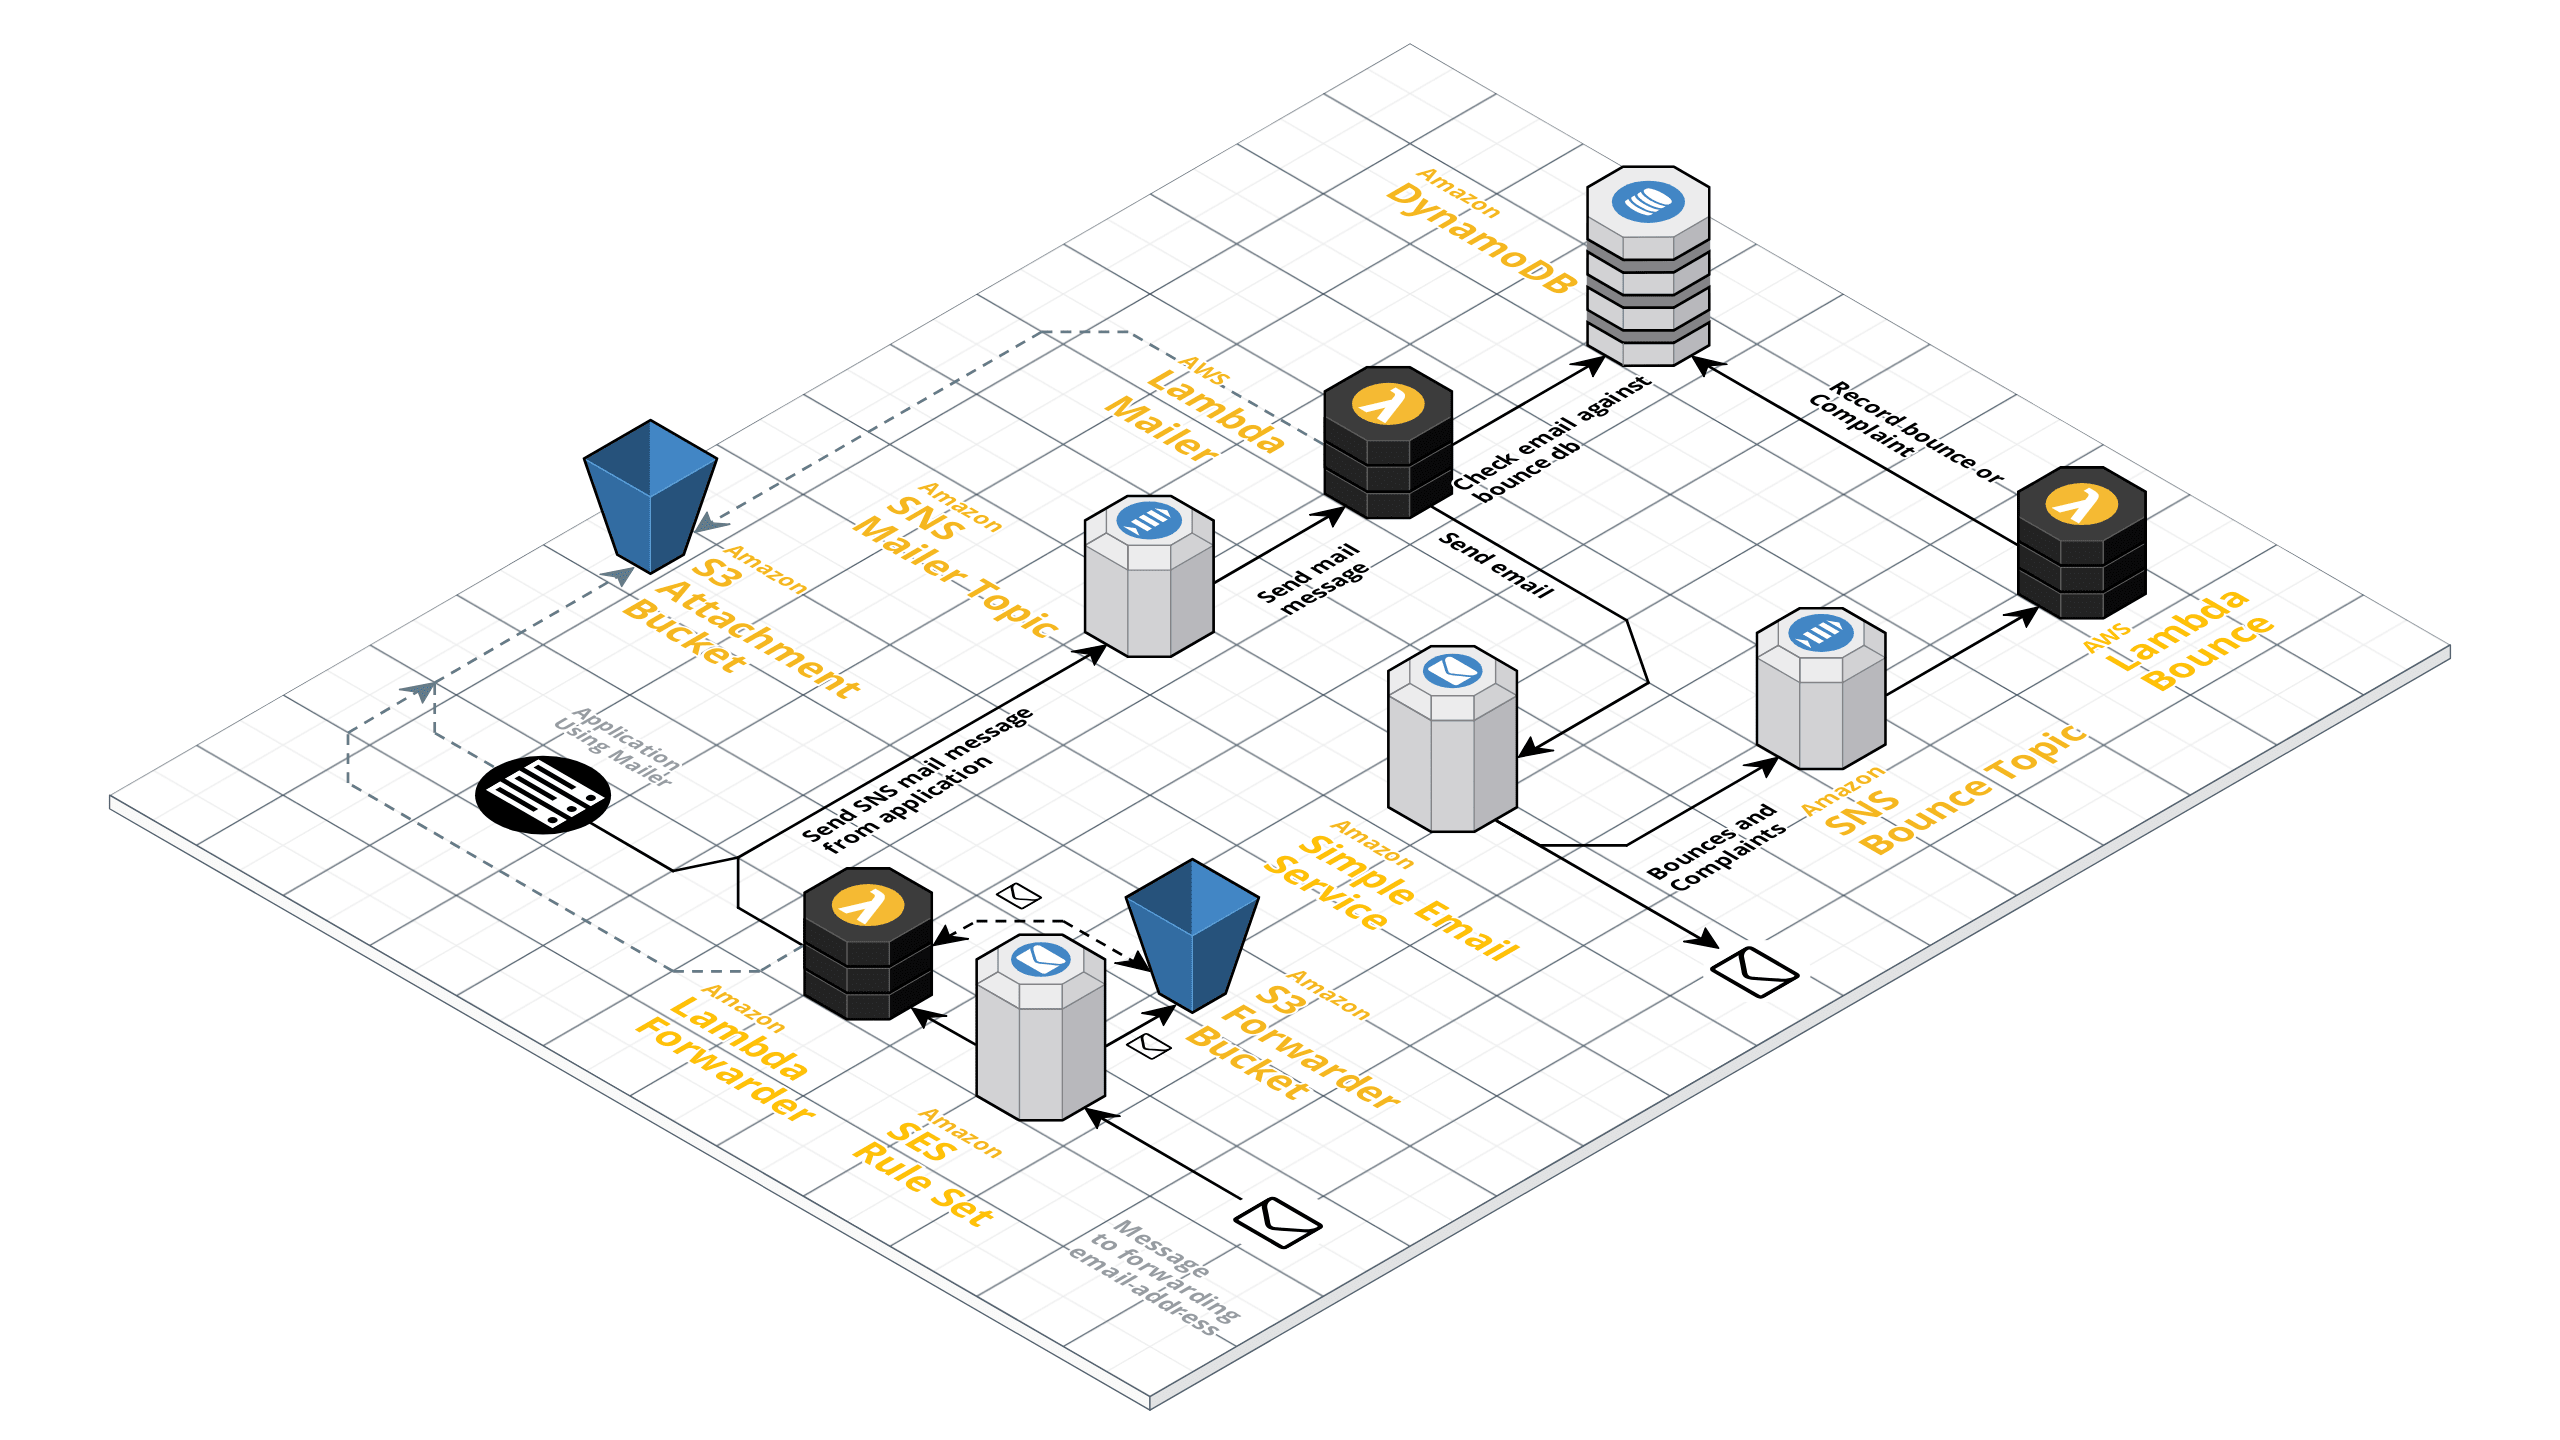
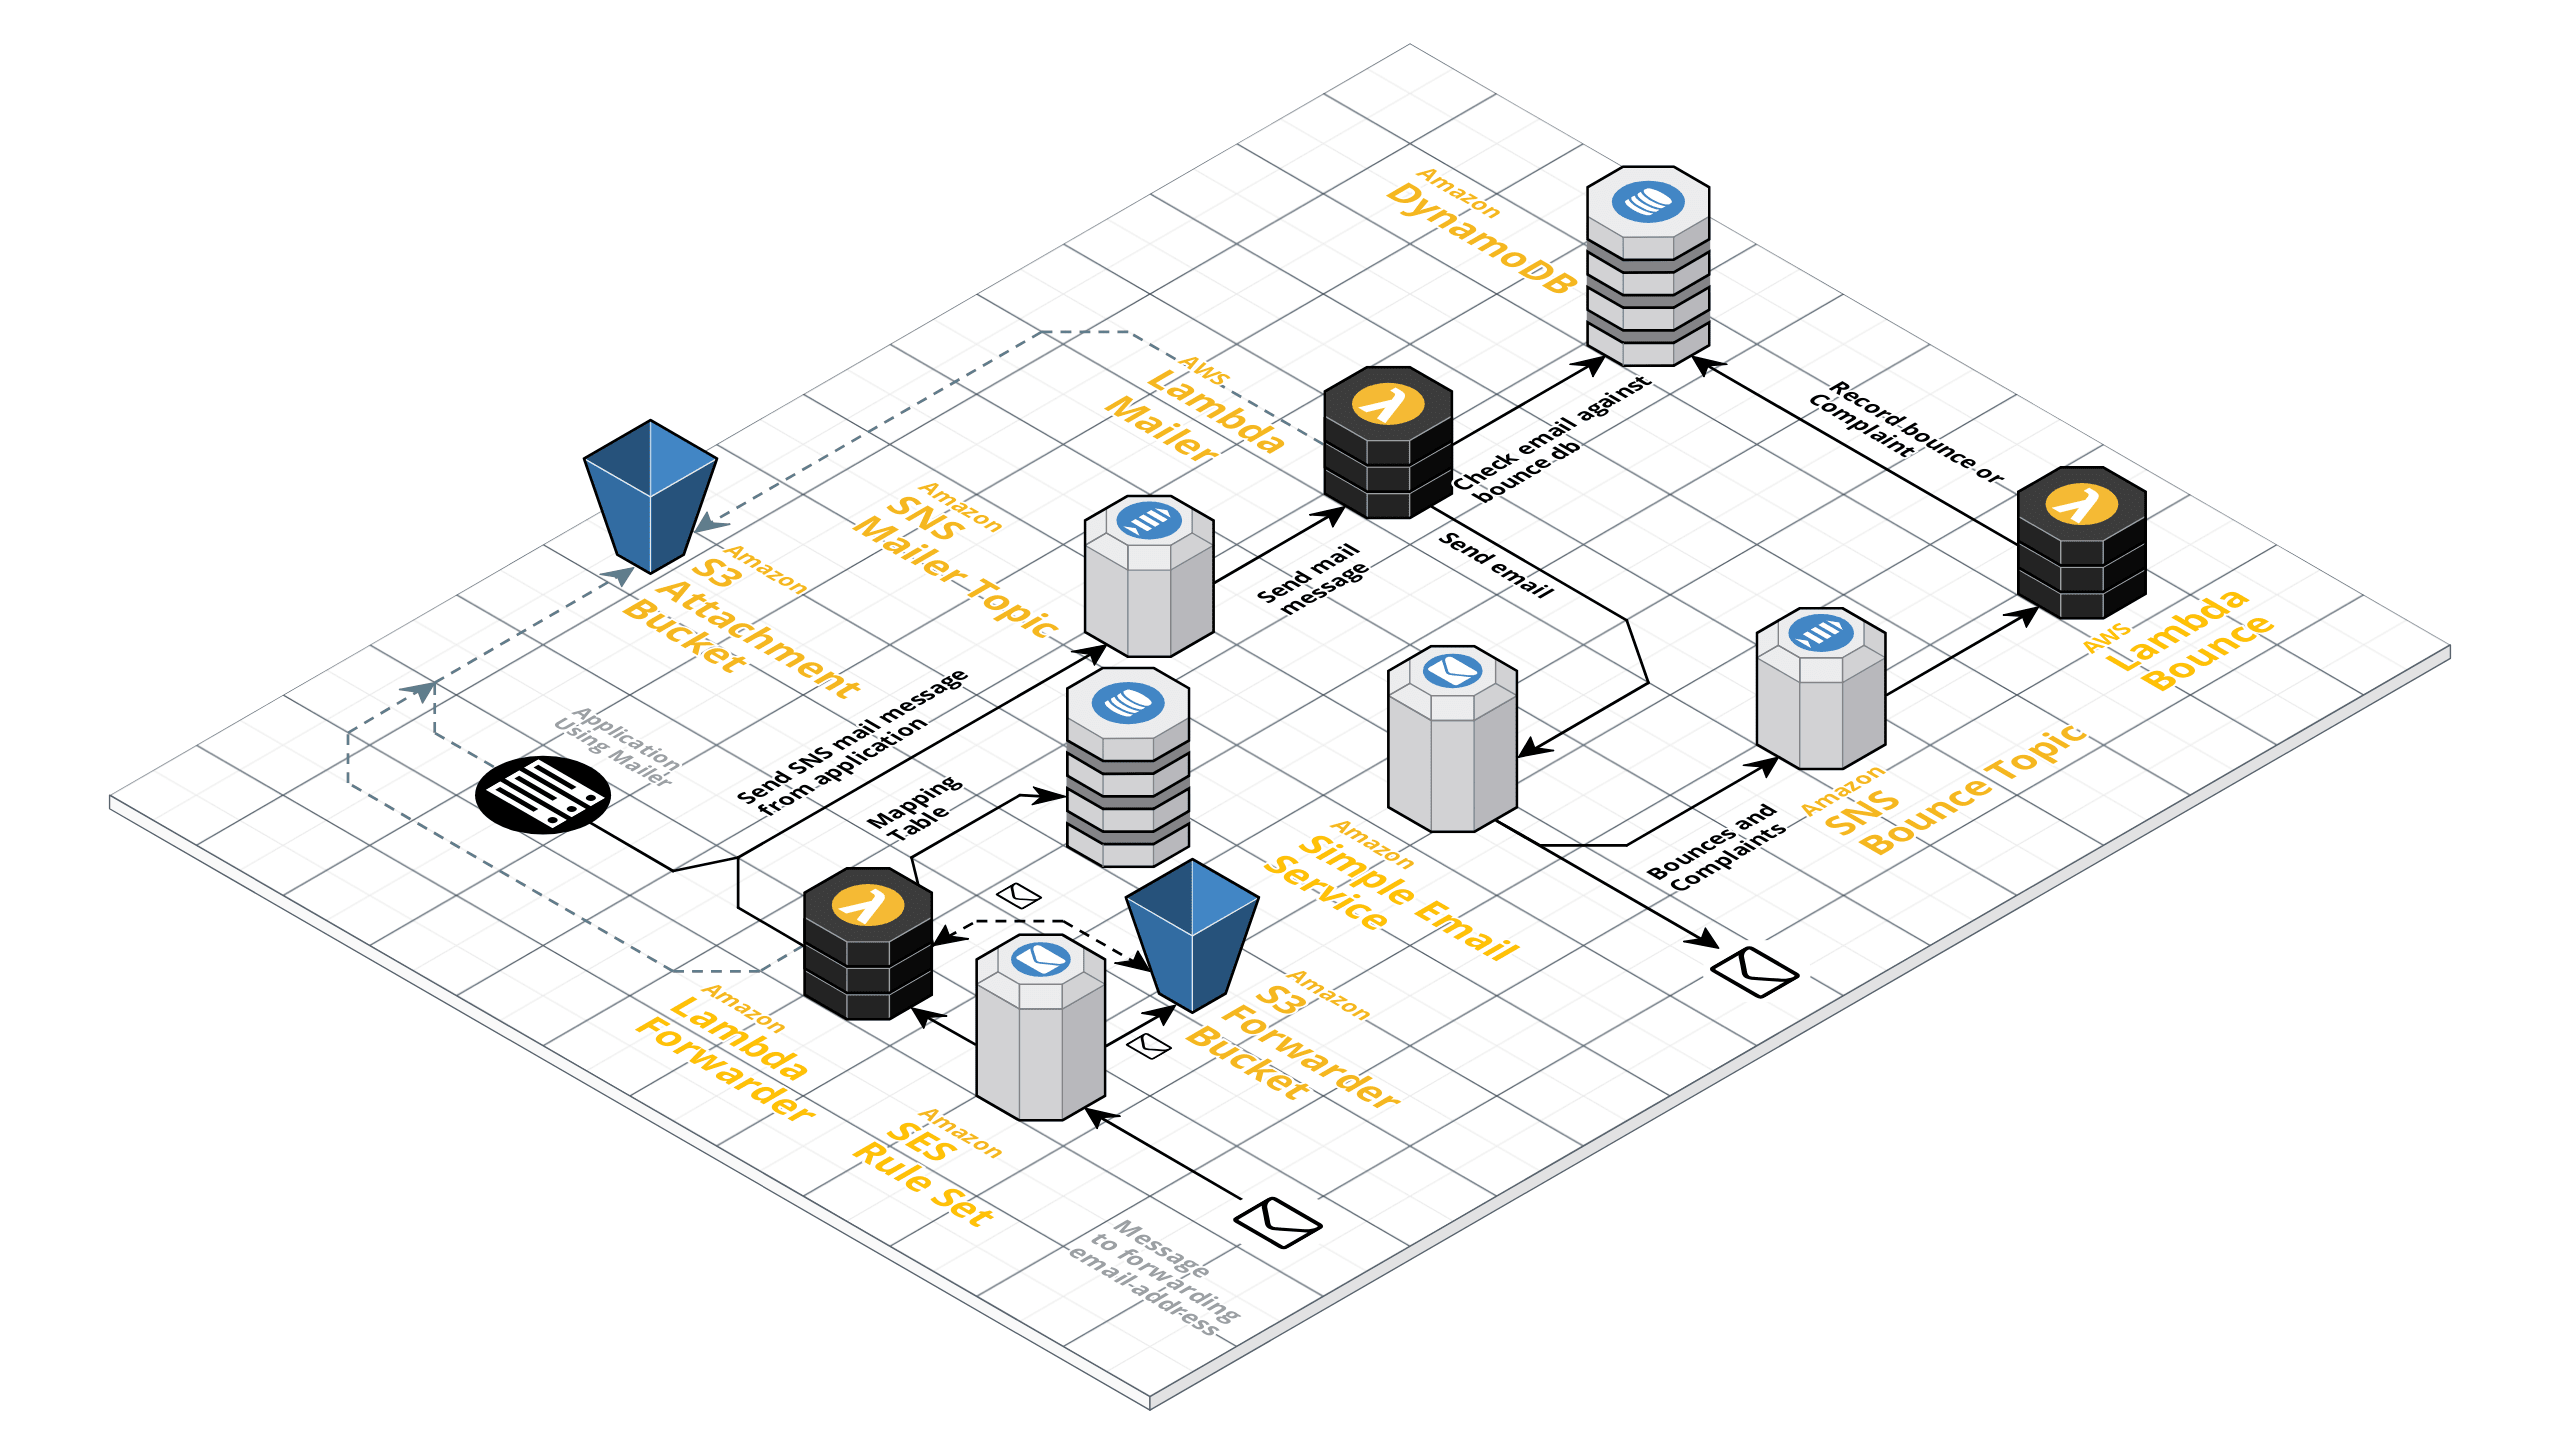
Update the documentation

Changed region(s): [[0.2812, 0.4688, 0.4688, 0.625], [0.5312, 0.3125, 0.5625, 0.3438]]

diff --git a/README.md b/README.md
@@ -56,12 +56,9 @@ The forwarder allows you to receive messages sent by a SES rule set.
 
 The forwarder will receive emails sent to the given address and forward them to the associated email addresses.
 
-The association is a mapping that has the following format:
-
-```
-spam@example.com=my.rea.email@gmail.com,anotheremail@yahoo.com&foobar@example2.com=some@email.com
-```
-and it must be assigned to the `EMAIL_MAPPING` environment variable. 
+The association is recorded in a DynamoDB table with a partition key `forwardingEmail` and a sort key `destiantionEmail` to 
+uniquely identify the mapping. The dymanodb table is created in the resources section, and the name is available through 
+the environment variable `MAPPING_TABLE`
 
 In addition, you will need to set the forwarding email addresses in an active SES Rule Set.
 For more information see the installation instructions below.
